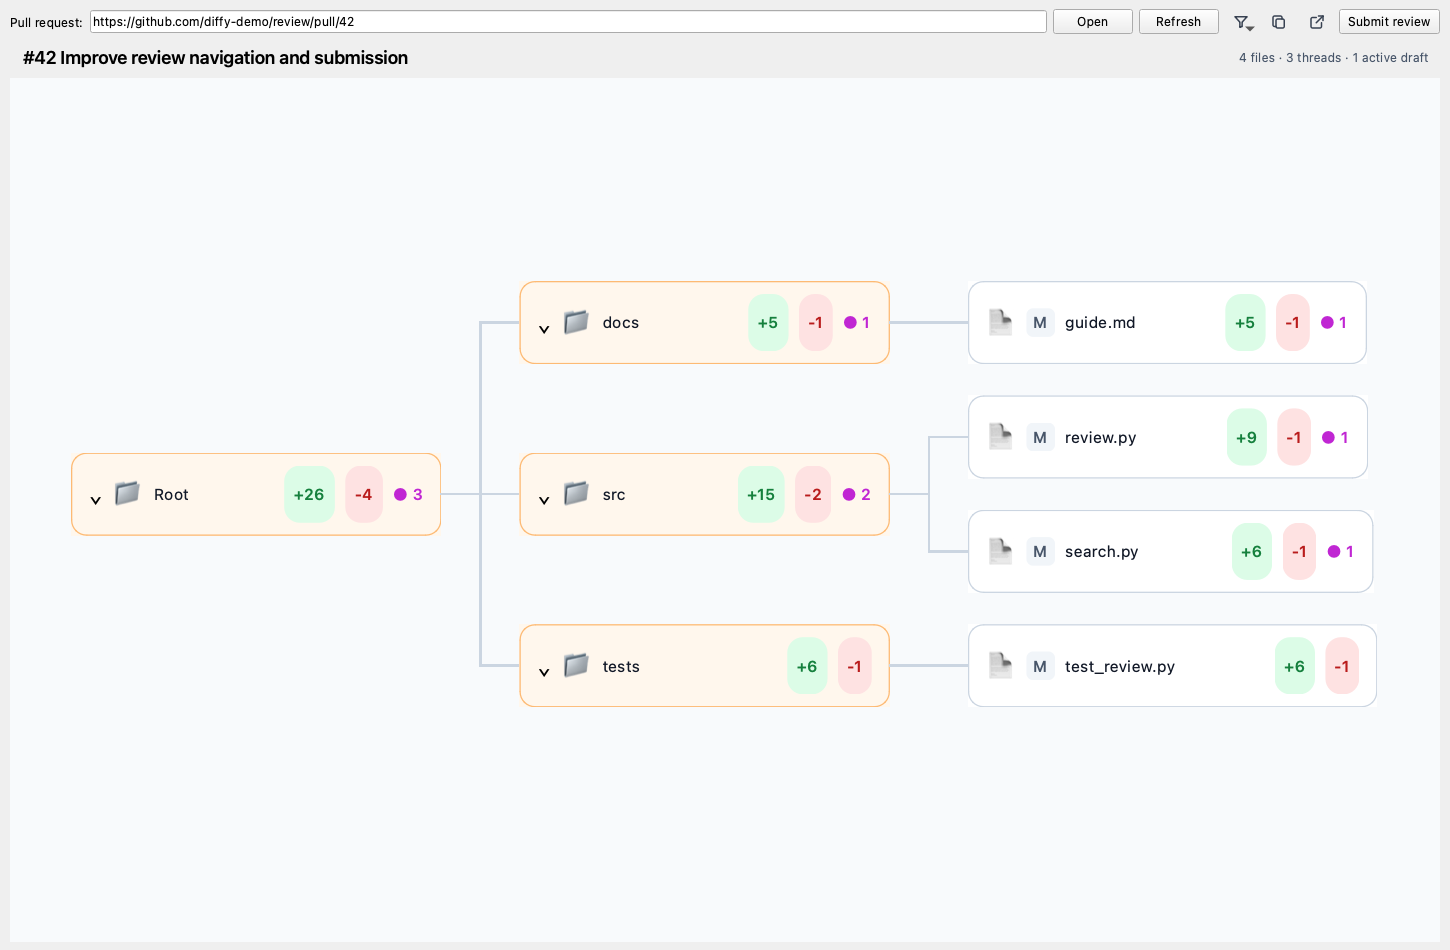
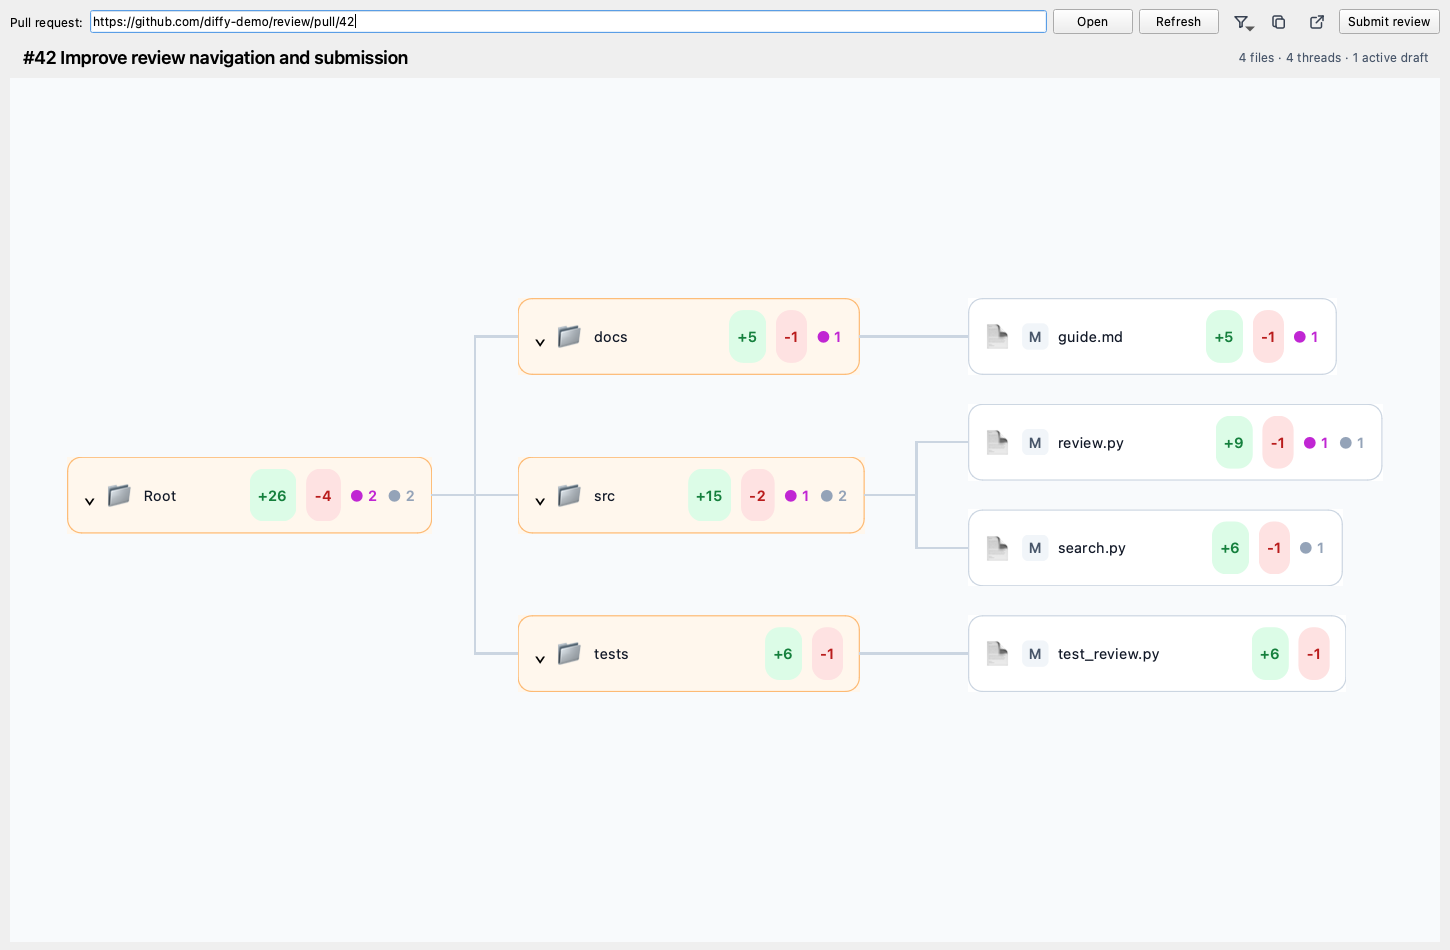
Show open and resolved comment badges

diff --git a/diffy/ui/main_window.py b/diffy/ui/main_window.py
@@ -373,7 +373,7 @@ class SpatialCanvas(QGraphicsView):
         self.tree: dict = {"folders": {}, "files": []}
         self.viewed: set[str] = set()
         self.draft_counts: dict[str, int] = {}
-        self.comment_counts: dict[str, int] = {}
+        self.comment_counts: dict[str, tuple[int, int]] = {}
         self.files: list[ChangedFile] = []
         self.node_widgets: list[TreeNodeWidget] = []
         self.node_proxies: dict[TreeNodeWidget, QGraphicsProxyWidget] = {}
@@ -384,12 +384,13 @@ class SpatialCanvas(QGraphicsView):
         files: list[ChangedFile],
         viewed: set[str],
         draft_counts: dict[str, int],
-        comment_counts: dict[str, int] | None = None,
+        comment_counts: dict[str, tuple[int, int]] | None = None,
     ) -> None:
         self.comment_counts = comment_counts or {}
         self.auto_fit = True
         self.zoom = 1.0
-        logger.debug("Rendering changed-file tree files=%d viewed=%d drafts=%d comments=%d", len(files), len(viewed), sum(draft_counts.values()), sum(self.comment_counts.values()))
+        total_comments = sum(open_count + resolved_count for open_count, resolved_count in self.comment_counts.values())
+        logger.debug("Rendering changed-file tree files=%d viewed=%d drafts=%d comments=%d", len(files), len(viewed), sum(draft_counts.values()), total_comments)
         self.files = files
         self.viewed = viewed
         self.draft_counts = draft_counts
@@ -427,10 +428,14 @@ class SpatialCanvas(QGraphicsView):
             self._draft_count(child) for child in node["folders"].values()
         )
 
-    def _comment_count(self, node: dict) -> int:
-        return sum(self.comment_counts.get(file.path, 0) for file in node["files"]) + sum(
-            self._comment_count(child) for child in node["folders"].values()
-        )
+    def _comment_counts_for_node(self, node: dict) -> tuple[int, int]:
+        open_count = sum(self.comment_counts.get(file.path, (0, 0))[0] for file in node["files"])
+        resolved_count = sum(self.comment_counts.get(file.path, (0, 0))[1] for file in node["files"])
+        for child in node["folders"].values():
+            child_open, child_resolved = self._comment_counts_for_node(child)
+            open_count += child_open
+            resolved_count += child_resolved
+        return open_count, resolved_count
 
     def _render_tree(self) -> None:
         self.scene.clear()
@@ -442,29 +447,34 @@ class SpatialCanvas(QGraphicsView):
         column_gap = 90
         metrics = QFontMetrics(QFont("Helvetica", 15))
 
-        def estimated_width(icon: str, name: str, status: str | None, additions: int, deletions: int, comment_count: int) -> int:
+        def estimated_width(icon: str, name: str, status: str | None, additions: int, deletions: int, comment_counts: tuple[int, int]) -> int:
             icon_width = metrics.horizontalAdvance(icon)
             name_width = metrics.horizontalAdvance(name)
             status_width = 34 if status else 0
             additions_width = metrics.horizontalAdvance(f"+{additions}") + 16
             deletions_width = metrics.horizontalAdvance(f"-{deletions}") + 16
-            comment_width = metrics.horizontalAdvance(f"● {comment_count}") + 8 if comment_count else 0
+            open_count, resolved_count = comment_counts
+            comment_width = 0
+            if open_count:
+                comment_width += metrics.horizontalAdvance(f"● {open_count}") + 8
+            if resolved_count:
+                comment_width += metrics.horizontalAdvance(f"● {resolved_count}") + 8
             return max(285, 28 + icon_width + name_width + status_width + additions_width + deletions_width + comment_width + 28)
 
         root_additions, root_deletions = self._change_totals(self.tree)
-        max_node_width = estimated_width("⌄  📁", "Root", None, root_additions, root_deletions, self._comment_count(self.tree))
+        max_node_width = estimated_width("⌄  📁", "Root", None, root_additions, root_deletions, self._comment_counts_for_node(self.tree))
         for file in self.files:
             filename = file.path.rsplit("/", 1)[-1]
             max_node_width = max(
                 max_node_width,
-                estimated_width("📄", filename, "M", file.additions, file.deletions, self.comment_counts.get(file.path, 0)),
+                estimated_width("📄", filename, "M", file.additions, file.deletions, self.comment_counts.get(file.path, (0, 0))),
             )
         for folder in self.tree["folders"].values():
             for name in self._folder_names(folder):
                 folder_additions, folder_deletions = self._change_totals(folder)
                 max_node_width = max(
                     max_node_width,
-                    estimated_width("⌄  📁", name, None, folder_additions, folder_deletions, self._comment_count(folder)),
+                    estimated_width("⌄  📁", name, None, folder_additions, folder_deletions, self._comment_counts_for_node(folder)),
                 )
         column_width = max_node_width + 30
         left_margin = 30
@@ -501,7 +511,7 @@ class SpatialCanvas(QGraphicsView):
             status: str | None,
             additions: int,
             deletions: int,
-            comment_count: int,
+            comment_counts: tuple[int, int],
             x: float,
             y: float,
             width: int,
@@ -509,7 +519,7 @@ class SpatialCanvas(QGraphicsView):
             tooltip: str,
             callback=None,
         ) -> None:
-            node = TreeNodeWidget(icon, name, status, additions, deletions, comment_count, width, node_height, style, tooltip)
+            node = TreeNodeWidget(icon, name, status, additions, deletions, comment_counts[0], comment_counts[1], width, node_height, style, tooltip)
             if callback:
                 node.clicked.connect(callback)
             node.key_action.connect(
@@ -539,10 +549,10 @@ class SpatialCanvas(QGraphicsView):
                 folder_path = folder["path"]
                 collapsed = folder_path in self.collapsed_folders
                 marker = "▸" if collapsed else "⌄"
-                comment_count = self._comment_count(folder)
+                comment_counts = self._comment_counts_for_node(folder)
                 additions, deletions = self._change_totals(folder)
                 name = folder_path.rsplit("/", 1)[-1]
-                width = estimated_width(f"{marker}  📁", name, None, additions, deletions, comment_count)
+                width = estimated_width(f"{marker}  📁", name, None, additions, deletions, comment_counts)
                 if parent_position is not None:
                     add_connector(parent_position[0], parent_position[1], parent_position[2], x, y)
                 add_node(
@@ -551,7 +561,7 @@ class SpatialCanvas(QGraphicsView):
                     None,
                     additions,
                     deletions,
-                    comment_count,
+                    comment_counts,
                     x,
                     y,
                     width,
@@ -565,8 +575,8 @@ class SpatialCanvas(QGraphicsView):
                 filename = file.path.rsplit("/", 1)[-1]
                 if file.path in self.viewed:
                     filename = f"✓  {filename}"
-                comment_count = self.comment_counts.get(file.path, 0)
-                width = estimated_width("📄", filename, status, file.additions, file.deletions, comment_count)
+                comment_counts = self.comment_counts.get(file.path, (0, 0))
+                width = estimated_width("📄", filename, status, file.additions, file.deletions, comment_counts)
                 if parent_position is not None:
                     add_connector(parent_position[0], parent_position[1], parent_position[2], x, y)
                 add_node(
@@ -575,7 +585,7 @@ class SpatialCanvas(QGraphicsView):
                     status,
                     file.additions,
                     file.deletions,
-                    comment_count,
+                    comment_counts,
                     x,
                     y,
                     width,
@@ -596,14 +606,15 @@ class SpatialCanvas(QGraphicsView):
         def render_without_root() -> None:
             root_x = left_margin
             root_y = top_margin + (root_span - 1) / 2 * row_height
-            root_width = estimated_width("⌄  📁", "Root", None, root_additions, root_deletions, self._comment_count(self.tree))
+            root_comment_counts = self._comment_counts_for_node(self.tree)
+            root_width = estimated_width("⌄  📁", "Root", None, root_additions, root_deletions, root_comment_counts)
             add_node(
                 "⌄  📁",
                 "Root",
                 None,
                 root_additions,
                 root_deletions,
-                self._comment_count(self.tree),
+                root_comment_counts,
                 root_x,
                 root_y,
                 root_width,
@@ -973,12 +984,17 @@ class MainWindow(QMainWindow):
             self.hidden_reviewers.discard(reviewer)
         self._refresh_comment_views()
 
-    def _comment_counts(self) -> dict[str, int]:
-        counts: dict[str, int] = {}
+    def _comment_counts(self) -> dict[str, tuple[int, int]]:
+        counts: dict[str, tuple[int, int]] = {}
         for thread in self.threads:
             visible_count = sum(comment.author not in self.hidden_reviewers for comment in thread.comments)
             if visible_count:
-                counts[thread.path] = counts.get(thread.path, 0) + visible_count
+                open_count, resolved_count = counts.get(thread.path, (0, 0))
+                if thread.resolved:
+                    resolved_count += visible_count
+                else:
+                    open_count += visible_count
+                counts[thread.path] = (open_count, resolved_count)
         return counts
 
     def _refresh_comment_views(self) -> None:

diff --git a/scripts/generate_product_tour.py b/scripts/generate_product_tour.py
@@ -115,6 +115,24 @@ def fixture_pull_request() -> LoadedPullRequest:
             ],
         ),
         ReviewThread(
+            thread_id="thread-4",
+            path="src/review.py",
+            line=9,
+            start_line=None,
+            side="RIGHT",
+            start_side=None,
+            resolved=True,
+            comments=[
+                ReviewComment(
+                    database_id=104,
+                    body="This summary behavior is covered by the existing tests.",
+                    author="sam",
+                    created_at="2025-01-10T10:30:00Z",
+                    url="https://github.com/diffy-demo/review/pull/42#discussion_r104",
+                )
+            ],
+        ),
+        ReviewThread(
             thread_id="thread-2",
             path="src/search.py",
             line=3,
@@ -220,31 +238,33 @@ def generate() -> list[tuple[str, str, str]]:
         QTest.keyClick(window.canvas.focused_node, Qt.Key.Key_Right)
         QTest.keyClick(window.canvas.focused_node, Qt.Key.Key_Space)
         process_events(application)
-        capture_window(window, "02-keyboard-navigation")
-        entries.append(("02-keyboard-navigation.png", "Keyboard navigation", "Move through the tree with the arrow keys and expand or collapse folders with Space."))
+        capture_window(window, "03-keyboard-navigation")
+        entries.append(("03-keyboard-navigation.png", "Keyboard navigation", "Move through the tree with the arrow keys and expand or collapse folders with Space."))
         window.canvas.focus_node_by_target("src/review.py")
         process_events(application)
+        capture_window(window, "02-comment-status")
+        entries.append(("02-comment-status.png", "Open and resolved comments", "A file with both states shows purple open comments and gray resolved comments beside its change badges."))
 
         window.show_quick_search()
         process_events(application)
         search = window.quick_search_dialog
         search.search_input.setText("review")
         process_events(application)
-        capture_window(window, "03-quick-search", search)
-        entries.append(("03-quick-search.png", "Quick search", "Press Cmd+Shift+F to search files and highlight the selected result in the canvas."))
+        capture_window(window, "04-quick-search", search)
+        entries.append(("04-quick-search.png", "Quick search", "Press Cmd+Shift+F to search files and highlight the selected result in the canvas."))
         search.reject()
         process_events(application)
 
         window.open_diff("src/review.py")
         process_events(application)
-        capture_window(window, "04-diff-comments")
-        entries.append(("04-diff-comments.png", "Diff and inline comments", "Review changed lines with inline threads, draft comments, and Reply or Resolve actions."))
+        capture_window(window, "05-diff-comments")
+        entries.append(("05-diff-comments.png", "Diff and inline comments", "Review changed lines with inline threads, draft comments, and Reply or Resolve actions."))
 
         menu_position = window.reviewer_filter_button.mapToGlobal(QPoint(0, window.reviewer_filter_button.height()))
         window.reviewer_filter_menu.popup(menu_position)
         process_events(application)
-        capture_window(window, "05-reviewer-filter", window.reviewer_filter_menu)
-        entries.append(("05-reviewer-filter.png", "Reviewer filtering", "Hide comments from selected reviewers while keeping the diff and canvas counts in sync."))
+        capture_window(window, "06-reviewer-filter", window.reviewer_filter_menu)
+        entries.append(("06-reviewer-filter.png", "Reviewer filtering", "Hide comments from selected reviewers while keeping the diff and canvas counts in sync."))
         window.reviewer_filter_menu.close()
         window.show_canvas()
         process_events(application)
@@ -252,7 +272,7 @@ def generate() -> list[tuple[str, str, str]]:
         def capture_submit_dialog() -> None:
             dialog = visible_dialog()
             if dialog:
-                capture_window(window, "06-submit-review", dialog)
+                capture_window(window, "07-submit-review", dialog)
                 dialog.reject()
             else:
                 QTimer.singleShot(20, capture_submit_dialog)
@@ -260,7 +280,7 @@ def generate() -> list[tuple[str, str, str]]:
         QTimer.singleShot(0, capture_submit_dialog)
         window.submit_review()
         process_events(application)
-        entries.append(("06-submit-review.png", "Submit review", "Submit a review summary and draft line comments as a comment, approval, or change request."))
+        entries.append(("07-submit-review.png", "Submit review", "Submit a review summary and draft line comments as a comment, approval, or change request."))
         window.close()
     return entries
 

diff --git a/diffy/ui/tree_node.py b/diffy/ui/tree_node.py
@@ -15,7 +15,8 @@ class TreeNodeWidget(QWidget):
         status: str | None,
         additions: int,
         deletions: int,
-        comment_count: int,
+        open_comment_count: int,
+        resolved_comment_count: int,
         width: int,
         height: int,
         style: str,
@@ -26,7 +27,9 @@ class TreeNodeWidget(QWidget):
         self.setAttribute(Qt.WidgetAttribute.WA_StyledBackground, True)
         self.node_icon = icon
         self.node_name = name
-        self.node_comment_count = comment_count
+        self.node_open_comment_count = open_comment_count
+        self.node_resolved_comment_count = resolved_comment_count
+        self.node_comment_count = open_comment_count + resolved_comment_count
         self.setFocusPolicy(Qt.FocusPolicy.StrongFocus)
         self.setFixedSize(width, height)
         self.setToolTip(tooltip)
@@ -63,10 +66,16 @@ class TreeNodeWidget(QWidget):
         deletions_label.setStyleSheet("background: #fee2e2; color: #b91c1c; border: 0; border-radius: 12px; padding: 4px 7px; font-weight: 600;")
         layout.addWidget(deletions_label)
 
-        comment_label = QLabel(f"● {comment_count}" if comment_count else "")
-        comment_label.setVisible(comment_count > 0)
-        comment_label.setStyleSheet("background: transparent; color: #c026d3; border: 0; font-weight: 600;")
-        layout.addWidget(comment_label)
+        if open_comment_count:
+            open_comment_label = QLabel(f"● {open_comment_count}")
+            open_comment_label.setToolTip("Open comments")
+            open_comment_label.setStyleSheet("background: transparent; color: #c026d3; border: 0; font-weight: 600;")
+            layout.addWidget(open_comment_label)
+        if resolved_comment_count:
+            resolved_comment_label = QLabel(f"● {resolved_comment_count}")
+            resolved_comment_label.setToolTip("Resolved comments")
+            resolved_comment_label.setStyleSheet("background: transparent; color: #94a3b8; border: 0; font-weight: 600;")
+            layout.addWidget(resolved_comment_label)
 
         for child in self.findChildren(QLabel):
             child.setAttribute(Qt.WidgetAttribute.WA_TransparentForMouseEvents)

diff --git a/docs/product-tour.md b/docs/product-tour.md
@@ -12,28 +12,34 @@ Navigate the pull request through a compact file tree with change and comment ba
 
 Move through the tree with the arrow keys and expand or collapse folders with Space.
 
-![Keyboard navigation](../assets/product-tour/02-keyboard-navigation.png)
+![Keyboard navigation](../assets/product-tour/03-keyboard-navigation.png)
+
+## Open and resolved comments
+
+A file with both states shows purple open comments and gray resolved comments beside its change badges.
+
+![Open and resolved comments](../assets/product-tour/02-comment-status.png)
 
 ## Quick search
 
 Press Cmd+Shift+F to search files and highlight the selected result in the canvas.
 
-![Quick search](../assets/product-tour/03-quick-search.png)
+![Quick search](../assets/product-tour/04-quick-search.png)
 
 ## Diff and inline comments
 
 Review changed lines with inline threads, draft comments, and Reply or Resolve actions.
 
-![Diff and inline comments](../assets/product-tour/04-diff-comments.png)
+![Diff and inline comments](../assets/product-tour/05-diff-comments.png)
 
 ## Reviewer filtering
 
 Hide comments from selected reviewers while keeping the diff and canvas counts in sync.
 
-![Reviewer filtering](../assets/product-tour/05-reviewer-filter.png)
+![Reviewer filtering](../assets/product-tour/06-reviewer-filter.png)
 
 ## Submit review
 
 Submit a review summary and draft line comments as a comment, approval, or change request.
 
-![Submit review](../assets/product-tour/06-submit-review.png)
+![Submit review](../assets/product-tour/07-submit-review.png)
